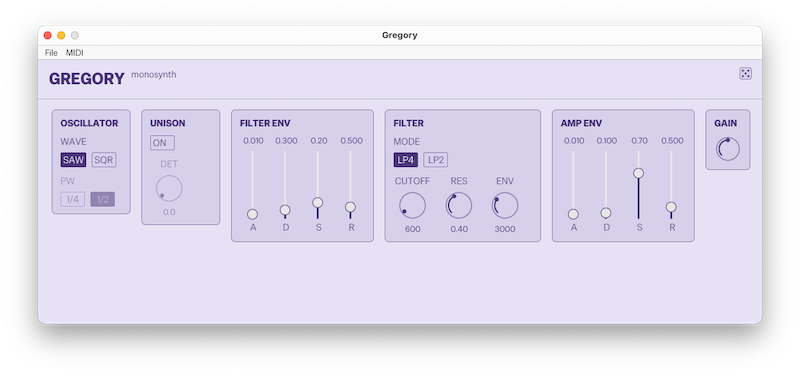
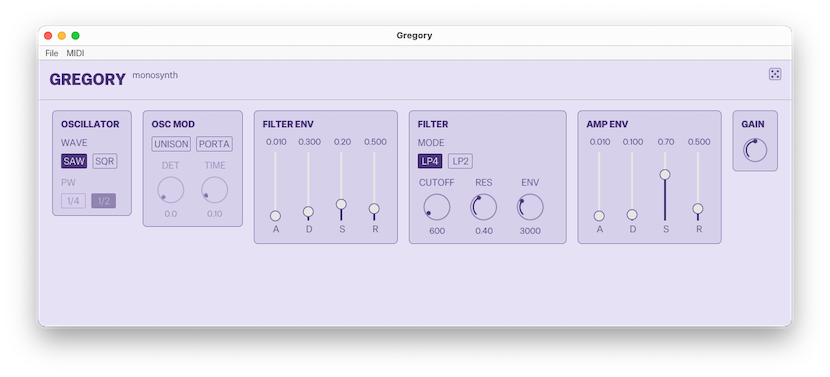
feat:add portamento

diff --git a/src/dsp/engine.rs b/src/dsp/engine.rs
@@ -1,6 +1,6 @@
 use serde::{Deserialize, Serialize};
 
-use crate::dsp::{Envelope, Filter, FilterMode, Oscillator, Waveform};
+use crate::dsp::{Envelope, EnvelopeStage, Filter, FilterMode, Oscillator, Waveform};
 
 /// Convert a MIDI note number to frequency in Hz.
 /// A4 = MIDI 69 = 440 Hz.
@@ -19,6 +19,10 @@ pub struct Patch {
     // Unison
     pub unison: bool,
     pub unison_detune: f64, // detune amount in cents, 0.0–50.0
+
+    // Portamento
+    pub portamento: bool,
+    pub portamento_time: f64,
 
     // Filter
     pub filter_mode: FilterMode,
@@ -49,6 +53,8 @@ impl Default for Patch {
             pulse_width: 0.5,
             unison: false,
             unison_detune: 0.0,
+            portamento: false,
+            portamento_time: 0.1,
             filter_mode: FilterMode::LowPass,
             filter_cutoff: 10.0,
             filter_resonance: 0.3,
@@ -87,6 +93,8 @@ impl Patch {
             pulse_width,
             unison: fastrand::bool(),
             unison_detune: if fastrand::bool() { r(5.0, 30.0) } else { 0.0 },
+            portamento: fastrand::bool(),
+            portamento_time: r(0.05, 0.5),
             filter_mode,
             filter_cutoff: r(200.0, 8000.0),
             filter_resonance: r(0.0, 0.7),
@@ -125,6 +133,8 @@ pub struct Engine {
     current_note: Option<u8>,
     pitch_bend_semitones: f64,
     mod_wheel: f64,
+    current_freq: f64,
+    target_freq: f64,
 }
 
 impl Engine {
@@ -168,16 +178,18 @@ impl Engine {
             current_note: None,
             pitch_bend_semitones: 0.0,
             mod_wheel: 0.0,
+            current_freq: 440.0,
+            target_freq: 440.0,
         }
     }
 
     /// Start a note. Frequency is derived from the MIDI note number.
     pub fn note_on(&mut self, note: u8, _velocity: u8) {
         self.current_note = Some(note);
-        let freq = midi_note_to_freq(note);
-        self.osc.set_frequency(freq);
-        self.osc2.set_frequency(freq);
-        self.osc3.set_frequency(freq);
+        self.target_freq = midi_note_to_freq(note);
+        if !self.patch.portamento || self.amp_env.stage() == EnvelopeStage::Idle {
+            self.current_freq = self.target_freq;
+        }
         self.amp_env.gate_on();
         self.flt_env.gate_on();
     }
@@ -209,11 +221,7 @@ impl Engine {
 
     /// Returns true if the engine is producing non-silent output
     pub fn is_active(&self) -> bool {
-        self.current_note.is_some()
-            || !matches!(
-                self.amp_env.stage(),
-                crate::dsp::envelope::EnvelopeStage::Idle
-            )
+        self.current_note.is_some() || !matches!(self.amp_env.stage(), EnvelopeStage::Idle)
     }
 
     pub fn set_patch(&mut self, p: Patch) {
@@ -242,19 +250,25 @@ impl Engine {
     }
 
     /// Produce one output sample. Call this once per sample on the audio thread.
-    ///
-    /// Signal flow: oscillator -> filter (cutoff modulated by flt_env) -> * amp_env -> * gain
     pub fn process(&mut self) -> f64 {
-        // Apply pitch bend — recompute frequency from base note + bend offset.
         if let Some(note) = self.current_note {
-            let bent_freq =
+            let bent_target =
                 midi_note_to_freq(note) * 2.0_f64.powf(self.pitch_bend_semitones / 12.0);
-            self.osc.set_frequency(bent_freq);
+            self.target_freq = bent_target;
 
+            if self.patch.portamento {
+                let coeff = (-8.0_f64.ln() / (self.patch.portamento_time * self.sample_rate)).exp();
+                self.current_freq =
+                    self.target_freq + (self.current_freq - self.target_freq) * coeff;
+            } else {
+                self.current_freq = self.target_freq;
+            }
+
+            self.osc.set_frequency(self.current_freq);
             if self.patch.unison {
-                let detune = 2.0_f64.powf(self.patch.unison_detune / 1200.0); // cents to ratio
-                self.osc2.set_frequency(bent_freq * detune);
-                self.osc3.set_frequency(bent_freq / detune);
+                let detune = 2.0_f64.powf(self.patch.unison_detune / 1200.0);
+                self.osc2.set_frequency(self.current_freq * detune);
+                self.osc3.set_frequency(self.current_freq / detune);
             }
         }
 

diff --git a/src/ui.rs b/src/ui.rs
@@ -229,8 +229,8 @@ impl eframe::App for GregoryApp {
                     section(ui, "OSCILLATOR", None, |ui| {
                         osc_section(ui, &mut self.local);
                     });
-                    section(ui, "UNISON", None, |ui| {
-                        unison_section(ui, &mut self.local);
+                    section(ui, "OSC MOD", None, |ui| {
+                        osc_mod_section(ui, &mut self.local);
                     });
                     section(ui, "FILTER ENV", None, |ui| {
                         flt_env_section(ui, &mut self.local);
@@ -334,36 +334,68 @@ fn osc_section(ui: &mut Ui, patch: &mut Patch) {
     });
 }
 
-fn unison_section(ui: &mut Ui, patch: &mut Patch) {
-    if toggle_button(ui, "ON", patch.unison).clicked() {
-        patch.unison = !patch.unison;
-    }
+fn osc_mod_section(ui: &mut Ui, patch: &mut Patch) {
+    ui.horizontal(|ui| {
+        if toggle_button(ui, "UNISON", patch.unison).clicked() {
+            patch.unison = !patch.unison;
+        }
+        if toggle_button(ui, "PORTA", patch.portamento).clicked() {
+            patch.portamento = !patch.portamento;
+        }
+    });
 
     ui.add_space(8.0);
 
     let col_width = 56.0;
     let knob_size = 44.0;
+
     let mut det_norm = patch.unison_detune / 50.0;
     let det_before = det_norm;
-    ui.add_enabled_ui(patch.unison, |ui| {
-        ui.vertical(|ui| {
-            ui.set_min_width(col_width);
-            ui.set_max_width(col_width);
-            ui.vertical_centered(|ui| {
-                ui.label(dimmed("DET"));
-                ui.add_space(2.0);
-                rotary_knob(ui, &mut det_norm, knob_size);
-                ui.add_space(2.0);
-                ui.label(
-                    RichText::new(format!("{:.1}", patch.unison_detune))
-                        .font(FontId::new(12.0, FontFamily::Proportional))
-                        .color(ACCENT),
-                );
+    let mut porta_norm = patch.portamento_time / 2.0;
+    let porta_before = porta_norm;
+
+    ui.horizontal(|ui| {
+        ui.add_enabled_ui(patch.unison, |ui| {
+            ui.vertical(|ui| {
+                ui.set_min_width(col_width);
+                ui.set_max_width(col_width);
+                ui.vertical_centered(|ui| {
+                    ui.label(dimmed("DET"));
+                    ui.add_space(2.0);
+                    rotary_knob(ui, &mut det_norm, knob_size);
+                    ui.add_space(2.0);
+                    ui.label(
+                        RichText::new(format!("{:.1}", patch.unison_detune))
+                            .font(FontId::new(12.0, FontFamily::Proportional))
+                            .color(ACCENT),
+                    );
+                });
+            });
+        });
+        ui.add_enabled_ui(patch.portamento, |ui| {
+            ui.vertical(|ui| {
+                ui.set_min_width(col_width);
+                ui.set_max_width(col_width);
+                ui.vertical_centered(|ui| {
+                    ui.label(dimmed("TIME"));
+                    ui.add_space(2.0);
+                    rotary_knob(ui, &mut porta_norm, knob_size);
+                    ui.add_space(2.0);
+                    ui.label(
+                        RichText::new(format!("{:.2}", patch.portamento_time))
+                            .font(FontId::new(12.0, FontFamily::Proportional))
+                            .color(ACCENT),
+                    );
+                });
             });
         });
     });
+
     if det_norm != det_before {
         patch.unison_detune = det_norm * 50.0;
+    }
+    if porta_norm != porta_before {
+        patch.portamento_time = porta_norm * 2.0;
     }
 }
 
@@ -716,4 +748,6 @@ fn patch_changed(a: &Patch, b: &Patch) -> bool {
         || a.gain != b.gain
         || a.unison != b.unison
         || a.unison_detune != b.unison_detune
+        || a.portamento != b.portamento
+        || a.portamento_time != b.portamento_time
 }

diff --git a/src/bin/gregory.rs b/src/bin/gregory.rs
@@ -122,7 +122,7 @@ fn main() {
     let options = eframe::NativeOptions {
         viewport: egui::ViewportBuilder::default()
             .with_title("Gregory")
-            .with_inner_size([1065.0, 410.0])
+            .with_inner_size([1096.0, 410.0])
             .with_resizable(false),
         ..Default::default()
     };

diff --git a/README.md b/README.md
@@ -6,10 +6,11 @@ Monophonic software synthesizer
 
 ## Summary
 
-Gregory is a one-oscillator subtractive monosynth written in Rust. It has a
-band-limited sawtooth and square oscillator, a four-pole Moog-style low-pass
-filter, and a dual ADSR envelope for amplitude and filter modulation. It
-accepts input from any connected MIDI keyboard and runs on macOS, Linux and
+Gregory is a one-oscillator subtractive monosynth written in Rust.
+It has a band-limited sawtooth and square oscillator with optional unison mode,
+a four-pole Moog-style low-pass filter, dual ADSR envelopes for amplitude and
+filter modulation, plus portamento for smooth pitch gliding between notes.
+It accepts input from any connected MIDI keyboard and runs on macOS, Linux and
 Windows via native audio APIs.
 
 ## Usage
